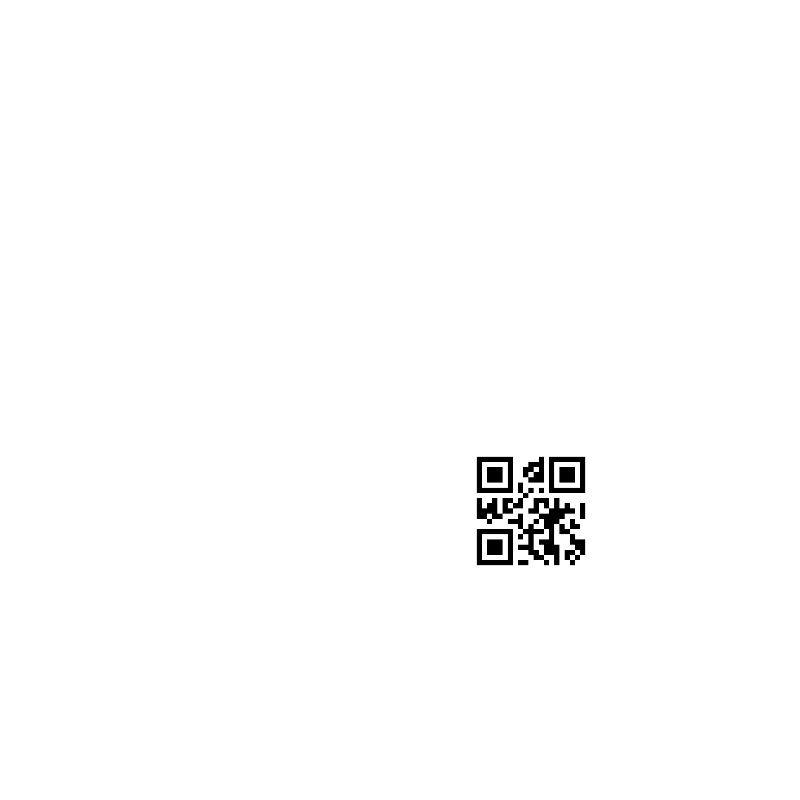
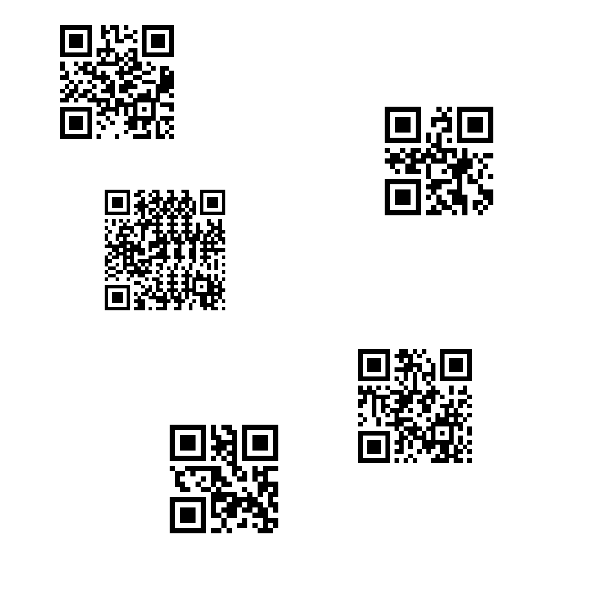
Slidinhg window approach

diff --git a/multi_qr_code_detector.py b/multi_qr_code_detector.py
@@ -1,0 +1,64 @@
+import cv2
+import os
+import numpy as np
+
+# Configuration
+INPUT_FOLDER = "qr_code_images"
+IMAGE_NAME = "generated_qr_image.png"
+INPUT_IMAGE_PATH = os.path.join(INPUT_FOLDER, IMAGE_NAME)
+
+WINDOW_SIZE = 200  # Fixed sliding window size
+STRIDE = 50  # Step size for moving the window
+
+def detect_qr_codes_sliding_window(image_path):
+    """Detect multiple QR codes using a simple sliding window approach."""
+
+    # Load the image
+    image = cv2.imread(image_path)
+    if image is None:
+        print(f"❌ Error: Could not load image {image_path}")
+        return
+
+    gray = cv2.cvtColor(image, cv2.COLOR_BGR2GRAY)
+    qr_detector = cv2.QRCodeDetector()
+    
+    height, width = gray.shape
+    detected_qrs = []
+
+    # Slide the window across the image
+    for y in range(0, height - WINDOW_SIZE + 1, STRIDE):
+        for x in range(0, width - WINDOW_SIZE + 1, STRIDE):
+            window = gray[y:y + WINDOW_SIZE, x:x + WINDOW_SIZE]
+            retval, points = qr_detector.detect(window)
+
+            if retval and points is not None:
+                points = np.squeeze(points).astype(int)  # Remove extra dimension
+
+                # Debugging: Print the shape of points
+                print(f"🔍 Detected QR Code at ({x}, {y}) - Points Shape: {points.shape}")
+
+                # Ensure points has exactly 4 points before processing
+                if points.shape == (4, 2):
+                    # Convert local window coordinates to full image coordinates
+                    adjusted_points = points + np.array([x, y])
+
+                    # Store detected QR code coordinates
+                    detected_qrs.append(adjusted_points)
+
+                    # Draw bounding box
+                    for i in range(4):
+                        cv2.line(image, tuple(adjusted_points[i]), tuple(adjusted_points[(i + 1) % 4]), (0, 255, 0), 3)
+                else:
+                    print(f"⚠ Unexpected points shape after squeeze: {points.shape}, skipping.")
+
+    if not detected_qrs:
+        print("❌ No QR codes detected.")
+
+    # Display the image with detected QR codes
+    cv2.imshow("Sliding Window QR Code Detection", image)
+    cv2.waitKey(0)
+    cv2.destroyAllWindows()
+
+# Run the sliding window QR detector
+if __name__ == "__main__":
+    detect_qr_codes_sliding_window(INPUT_IMAGE_PATH)

diff --git a/qr_code_detector.py b/qr_code_detector.py
@@ -7,9 +7,10 @@ OUTPUT_FOLDER = "cropped_qr_codes"  # Folder to store cropped QR codes
 IMAGE_NAME = "generated_qr_image.png"  # Name of the image to process
 INPUT_IMAGE_PATH = os.path.join(INPUT_FOLDER, IMAGE_NAME)
 OUTPUT_IMAGE_PATH = os.path.join(OUTPUT_FOLDER, "qr_1.png")
+MARGIN = 10  # Extra pixels to add around the cropped QR code
 
-def detect_and_crop_qr(image_path, output_path):
-    """Detects a single QR code in an image, crops it, and saves it."""
+def detect_and_crop_qr(image_path, output_path, margin=MARGIN):
+    """Detects a single QR code in an image, crops it with margin, and saves it."""
 
     # Load the image
     image = cv2.imread(image_path)
@@ -29,13 +30,13 @@ def detect_and_crop_qr(image_path, output_path):
     if retval and points is not None:
         points = points.astype(int)
 
-        # Extract bounding box coordinates
-        x_min = min(points[0][:, 0])
-        x_max = max(points[0][:, 0])
-        y_min = min(points[0][:, 1])
-        y_max = max(points[0][:, 1])
+        # Extract bounding box coordinates with margin
+        x_min = max(0, min(points[0][:, 0]) - margin)
+        x_max = min(image.shape[1], max(points[0][:, 0]) + margin)
+        y_min = max(0, min(points[0][:, 1]) - margin)
+        y_max = min(image.shape[0], max(points[0][:, 1]) + margin)
 
-        # Crop the QR code from the image
+        # Crop the QR code from the image with margin
         cropped_qr = image[y_min:y_max, x_min:x_max]
 
         # Create output directory if not exists
@@ -43,7 +44,7 @@ def detect_and_crop_qr(image_path, output_path):
 
         # Save cropped QR code
         cv2.imwrite(output_path, cropped_qr)
-        print(f"✅ Cropped QR code saved as {output_path}")
+        print(f"✅ Cropped QR code saved as {output_path} with {margin}px margin")
         return True
 
     else:

diff --git a/image_generator.py b/image_generator.py
@@ -4,12 +4,12 @@ import random
 import os
 
 # Configuration
-BACKGROUND_SIZE = (800, 800)  # (width, height)
+BACKGROUND_SIZE = (600, 600)  # (width, height)
 QR_CODE_SIZE = (150, 150)  # Resize QR codes to fit
 QR_IMAGES_FOLDER = "qr_dataset"  # Folder where QR codes are stored
 OUTPUT_FOLDER = "qr_code_images"  # Folder to store generated images
 OUTPUT_IMAGE = os.path.join(OUTPUT_FOLDER, "generated_qr_image.png")
-NUM_QR_CODES = 1  # Number of QR codes to place
+NUM_QR_CODES = 5  # Number of QR codes to place
 
 def load_qr_images(folder, num_qr):
     """Load random QR images from the dataset folder."""
